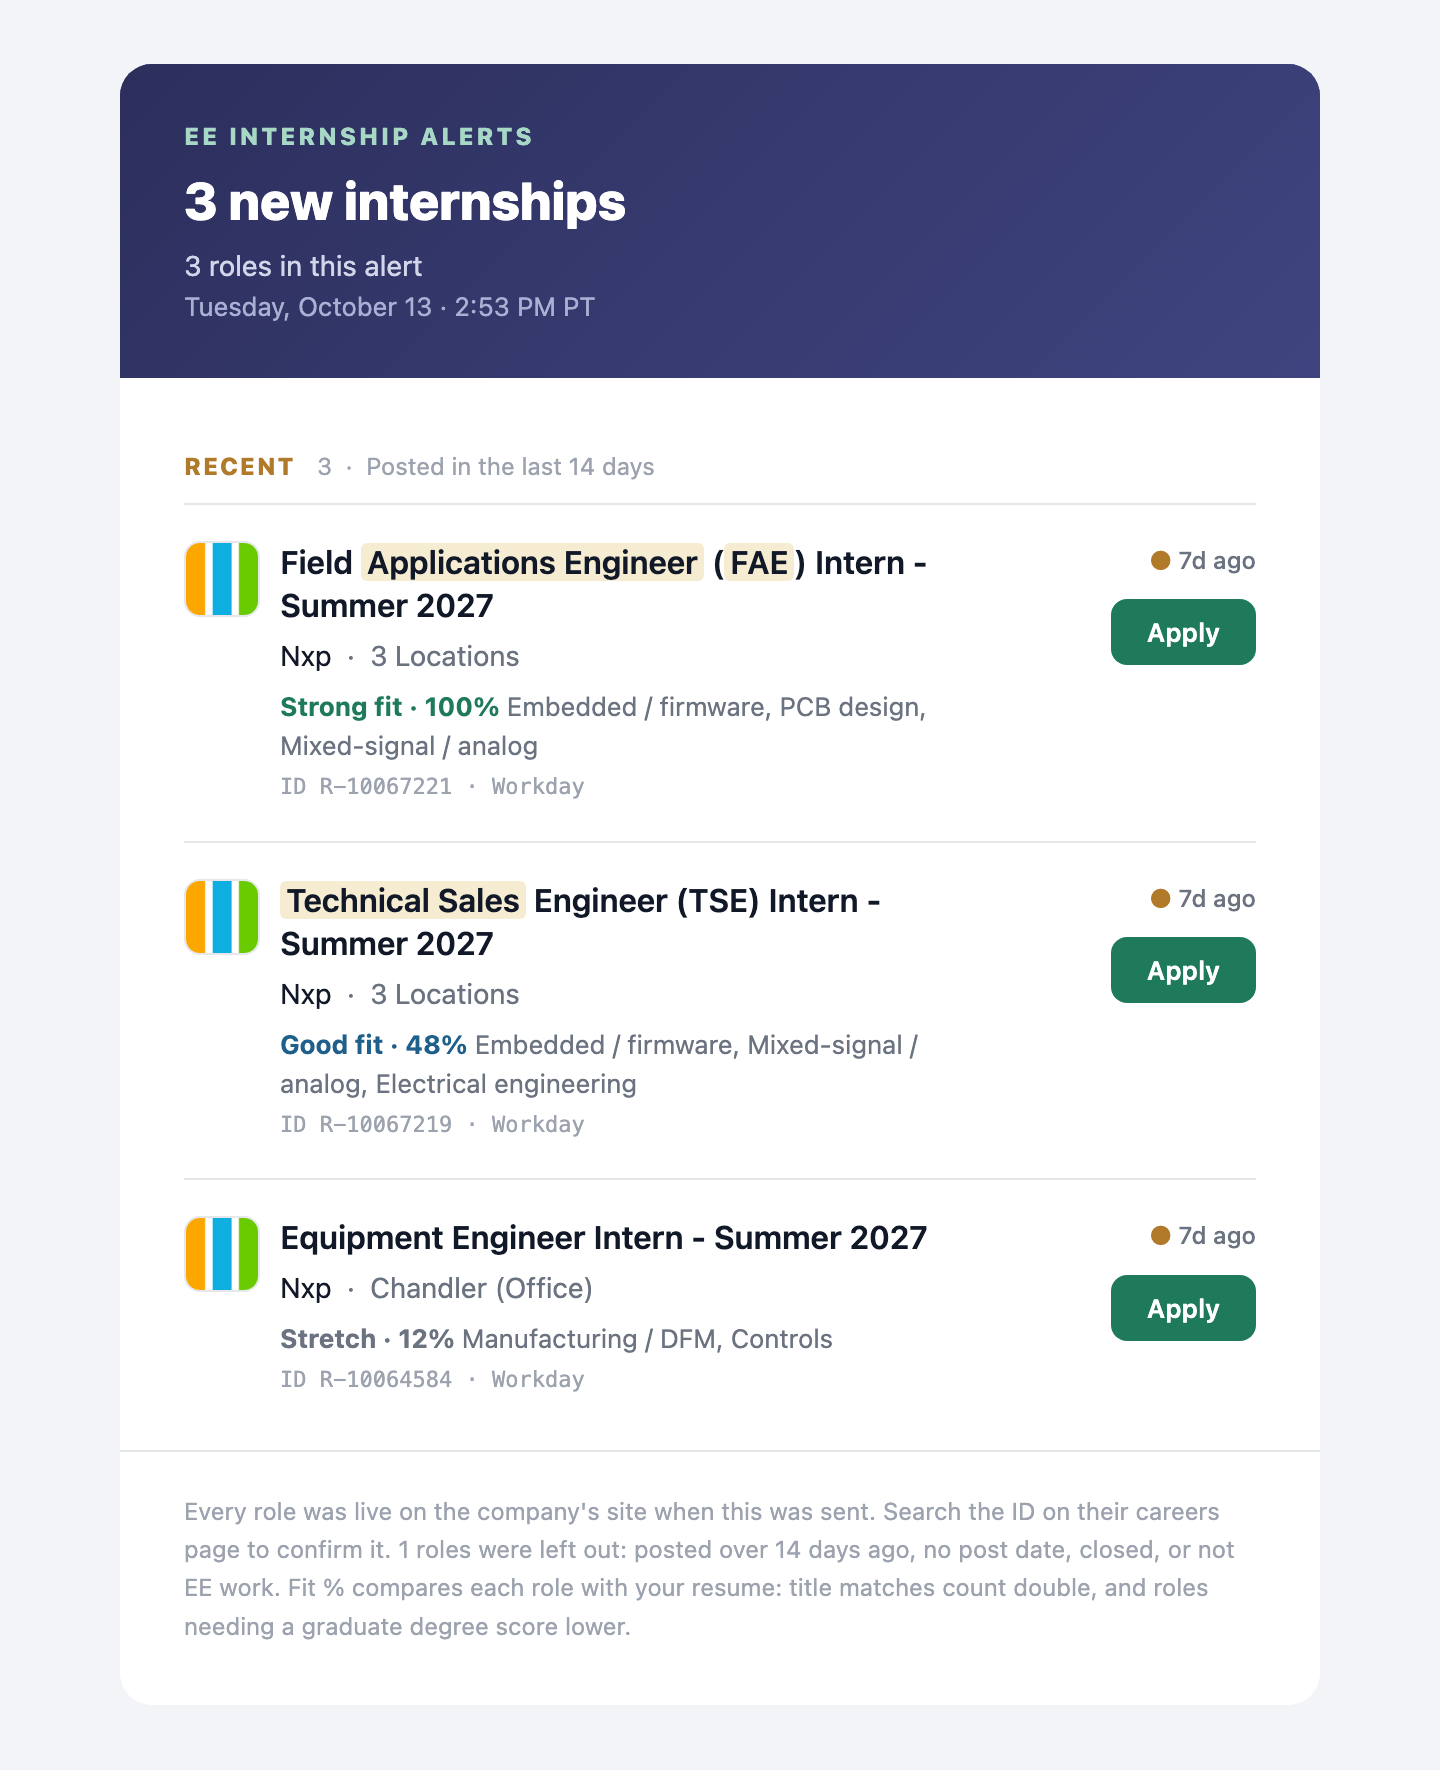
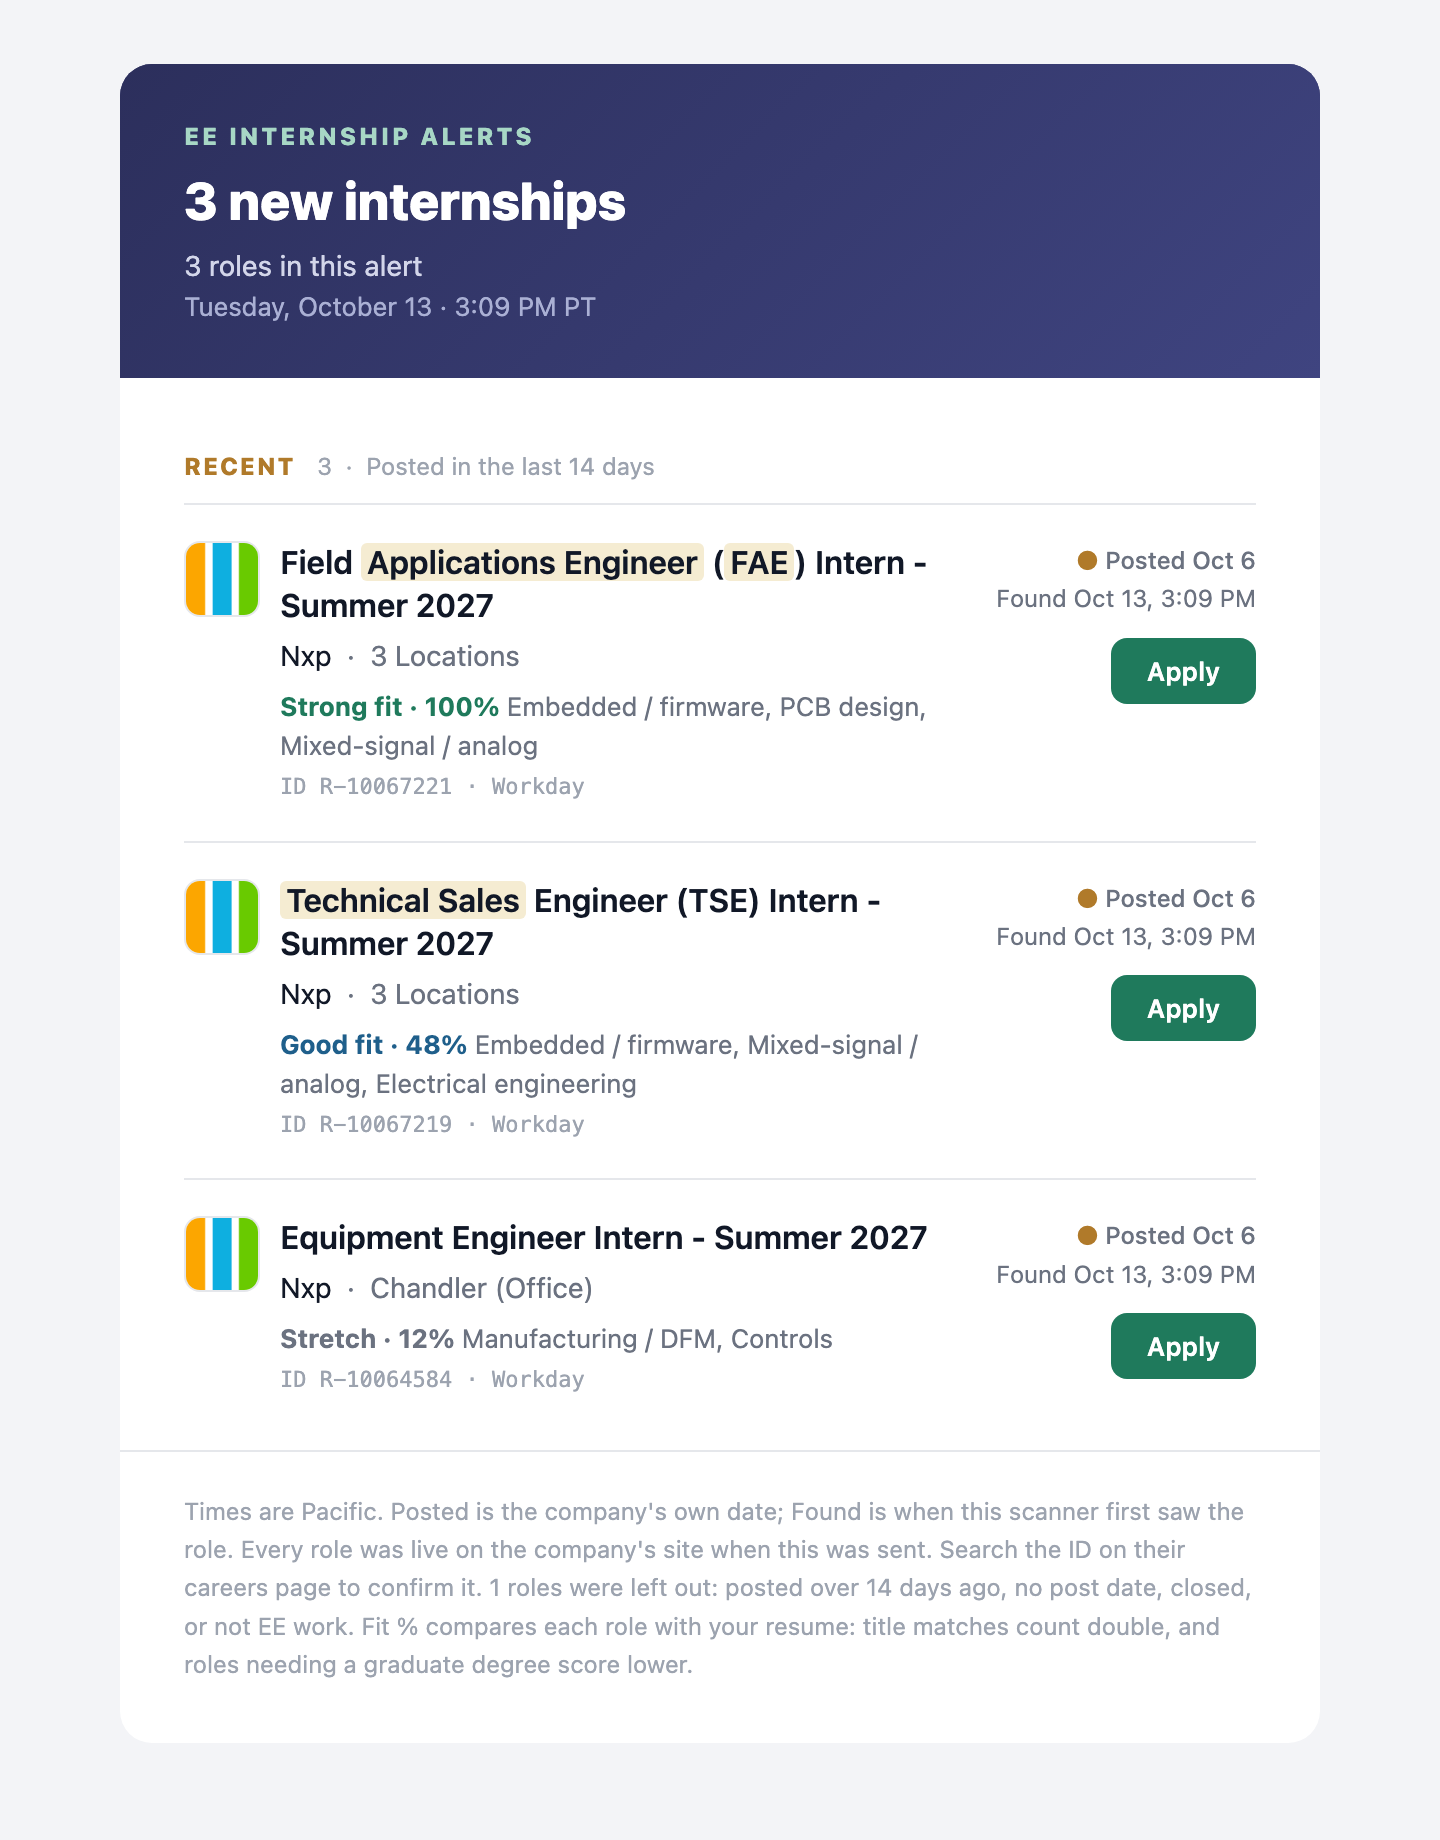
Show exact Posted and Found times instead of relative ages
An email read hours later still said "Just posted" or "1h ago".

diff --git a/jobscan.py b/jobscan.py
@@ -748,17 +748,16 @@ def wikidata_logo(company):
     return None
 
 
-def ago(p, now):
-    d = now - p
-    if d < datetime.timedelta(hours=1): return "Just posted"
-    if d < datetime.timedelta(days=1): return f"{d.seconds // 3600}h ago"
-    if d.days < 14: return f"{d.days}d ago"
-    return f"{d.days // 7} wks ago"
+def when(p):
+    """Exact time in PT, never "2h ago": an email read hours later must not still claim the role just dropped."""
+    if (p.hour, p.minute, p.second) == (0, 0, 0): return f"{p:%b %-d}"  # the site gave a date only, no time of day
+    return f"{p.astimezone(PACIFIC):%b %-d, %-I:%M %p}"
 
 
-def email(jobs, seen_at, priority_names, send=True):
+def email(jobs, seen_at, priority_names, send=True, found={}):
     """Alert email (best 30). Each card reads in a Z (Gutenberg): logo+role -> age, company/place/pay -> Apply.
     Only roles with a real post date within MAX_AGE days, still open, and EE work are sent.
+    found: url -> ISO time the scanner first saw the role, for roles that waited in the queue (default: this scan).
     Returns the URLs handled (sent, or skipped on purpose); anything else carries over to the next batch."""
     esc = html.escape
     looked = sorted(jobs, key=lambda j: (tier(j[3]), j[1] not in priority_names))[:300]  # ponytail: 300 lookups/hour; the rest wait
@@ -822,7 +821,8 @@ def email(jobs, seen_at, priority_names, send=True):
         if loc[:1].islower(): loc = re.sub(r"\b[a-z]", lambda m: m[0].upper(), loc)
         loc = loc if len(loc) < 60 else loc[:57] + "…"
         dot = EMERALD if a is not None and a <= 3 else AMBER if a is None or a <= 14 else FAINT
-        age = ago(p, seen_at) if p else "Date not listed"
+        age = f"Posted {when(p)}" if p else "Date not listed"
+        found_at = when(datetime.datetime.fromisoformat(found[u]) if u in found else seen_at)
         age_style = f"font:700 12px/1.6 {FONT};color:{EMERALD}" if a is not None and a <= 3 else f"font:500 12px/1.6 {FONT};color:{MUTED}"
         # highlight the EE terms that made this role match (RF, PCB, power systems, FPGA, ...)
         title = "".join(f'<span style="background:#f5ecd2;padding:0 3px;border-radius:3px">{esc(x)}</span>' if i % 2 else esc(x)
@@ -850,8 +850,9 @@ def email(jobs, seen_at, priority_names, send=True):
    <div style="font:13px/1.5 {FONT};padding-top:5px"><b style="color:{fit_color}">{fit_label} &middot; {score}%</b>
      <span style="color:{MUTED}">{esc(", ".join(matched)) if matched else "Few resume matches"}</span></div>
    <div style="font:11px/1.6 Menlo,Consolas,monospace;color:{FAINT};padding-top:2px">{esc(idline)}</div></td>
- <td width="130" valign="top" align="right" style="padding-left:12px">
+ <td width="150" valign="top" align="right" style="padding-left:12px">
    <div style="{age_style};white-space:nowrap"><span style="color:{dot}">&#9679;</span>&nbsp;{esc(age)}</div>
+   <div style="font:12px/1.6 {FONT};color:{MUTED};white-space:nowrap">Found {esc(found_at)}</div>
    {f'<div style="padding-top:4px"><span style="display:inline-block;background:#d9e8f3;color:{INDIGO};font:800 14px/1 {FONT};padding:5px 9px;border-radius:6px;white-space:nowrap">{esc(pay)}</span></div>' if pay else ""}
    <a href="{esc(u)}" style="display:inline-block;margin-top:10px;background:{EMERALD};color:#ffffff;font:600 13px/1 {FONT};
       text-decoration:none;padding:10px 18px;border-radius:8px;white-space:nowrap">Apply</a></td></tr></table></td></tr>"""
@@ -875,6 +876,7 @@ def email(jobs, seen_at, priority_names, send=True):
   <div style="font:13px/1.5 {FONT};color:#aab0d4">{seen_at.astimezone(PACIFIC):%A, %B %-d · %-I:%M %p} PT</div></td></tr>
 <tr><td style="padding:4px 32px 8px"><table role="presentation" width="100%" cellpadding="0" cellspacing="0">{sections}</table></td></tr>
 <tr><td style="padding:20px 32px 30px;border-top:1px solid {LINE};font:12px/1.6 {FONT};color:{FAINT}">
+  Times are Pacific. Posted is the company's own date; Found is when this scanner first saw the role.
   Every role was live on the company's site when this was sent. Search the ID on their careers page to confirm it.
   {f"{hidden} roles were left out: posted over {MAX_AGE} days ago, no post date, closed, or not EE work." if hidden > 0 else ""}
   {f"{dropped_same_co} more roles at companies already listed were left out, to keep it to your best 3 per company." if dropped_same_co else ""}
@@ -924,7 +926,7 @@ def main(dry=False):
     now = datetime.datetime.now(datetime.timezone.utc)
     print(f"{len(boards)} boards, {len(jobs)} matches, {len(new)} new or queued", flush=True)
     # send first (even with nothing new, as the hourly heartbeat): a failed send leaves everything queued for the next run
-    try: handled = email(new, now, {names.get("|".join(b)) for b in boards if low(b) in priority})
+    try: handled = email(new, now, {names.get("|".join(b)) for b in boards if low(b) in priority}, found=queue)
     except Exception as e:  # record why (never the password itself) so a failed send is diagnosable from the repo
         got = f"FROM={'set' if FROM else 'MISSING'} TO={'set' if TO else 'MISSING'} PASS={len(os.environ.get('JOBSCAN_PASS', ''))} chars"
         (HERE / "last_run.txt").write_text(f"{now:%Y-%m-%dT%H:%M}Z EMAIL FAILED: {type(e).__name__}: {str(e)[:300]} | {got}\n")
@@ -980,8 +982,7 @@ if __name__ == "__main__":
         assert job_id("https://textron.taleo.net/careersection/textron/jobdetail.ftl?job=342717") == "342717"
         assert source("https://careers-gdms.icims.com/jobs/75140/x/job") == "iCIMS" and source("https://careers.amd.com/jobs/1") == "careers.amd.com"
         n = datetime.datetime(2026, 9, 30, 12, tzinfo=datetime.timezone.utc)
-        assert ago(n - datetime.timedelta(minutes=20), n) == "Just posted" and ago(n - datetime.timedelta(hours=5), n) == "5h ago"
-        assert ago(n - datetime.timedelta(days=40), n) == "5 wks ago"
+        assert when(n.replace(hour=22, minute=20)) == "Sep 30, 3:20 PM" and when(n.replace(hour=0)) == "Sep 30"  # PT; date-only stays a date
         assert re.sub(r"(\d[\d,.]*) ?USD", r"$\1", "42,000 USD - 88,000 USD").replace(" - ", " – ") == "$42,000 – $88,000"
         assert logo("Texas Instruments", "https://edbz.fa.us2.oraclecloud.com/x", {})
         assert "lockheedmartin.com" in logo("Lockheed Martin", "https://lockheedmartin.eightfold.ai/careers/job/1", {})
